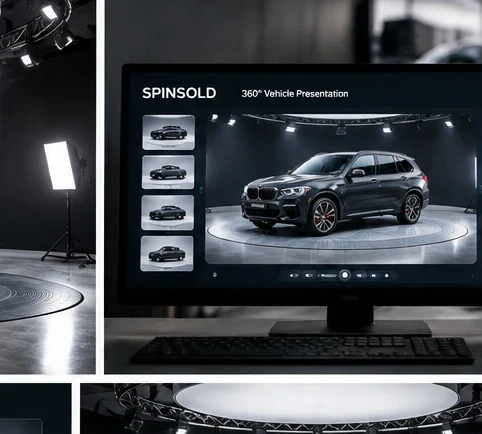
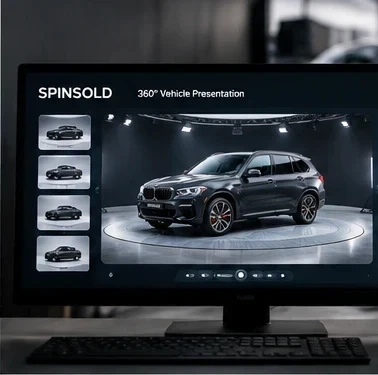
fix: crop white areas from SpinSold viewer and platform images
- viewer-360: removed white strip on left edge (4px)
- platform-screen: cropped off white monitor bezel and desk area
- platform container: added aspect-ratio and object-fit:cover for proper fit

Claude-Session: https://claude.ai/code/session_019nQXoTTTjsi8gfFcyWTRe3

diff --git a/public/solutions/demos/spinsold/index.html b/public/solutions/demos/spinsold/index.html
@@ -304,7 +304,7 @@ img{display:block;max-width:100%}
   <h2 class="ss-h2" style="margin-bottom:48px" data-i18n="s04_title">See every angle.</h2>
   <div class="ss-viewer">
     <div class="ss-viewer__stage" style="aspect-ratio:16/9;position:relative">
-      <img src="/solutions/demos/spinsold/img/viewer-360.webp" alt="360° vehicle photography setup with turntable and lighting rig" style="position:absolute;inset:0;width:100%;height:100%;object-fit:cover">
+      <img src="/solutions/demos/spinsold/img/viewer-360.webp" alt="360° vehicle photography setup with turntable and lighting rig" style="position:absolute;inset:0;width:100%;height:100%;object-fit:cover;object-position:center">
       <div class="ss-viewer__top">
         <div class="ss-tabs--pill">
           <button class="ss-tab" aria-selected="true" data-i18n="tab_exterior">Exterior</button>
@@ -360,8 +360,8 @@ img{display:block;max-width:100%}
       </div>
     </div>
     <!-- Dashboard mockup -->
-    <div style="border-radius:var(--radius-xl);overflow:hidden;border:1px solid var(--steel-150)">
-      <img src="/solutions/demos/spinsold/img/platform-screen.webp" alt="SpinSold platform dashboard" style="width:100%;display:block">
+    <div style="border-radius:var(--radius-xl);overflow:hidden;border:1px solid var(--steel-150);aspect-ratio:4/3;background:var(--graphite-900)">
+      <img src="/solutions/demos/spinsold/img/platform-screen.webp" alt="SpinSold platform dashboard" style="width:100%;height:100%;display:block;object-fit:cover">
     </div>
   </div>
 </div>
